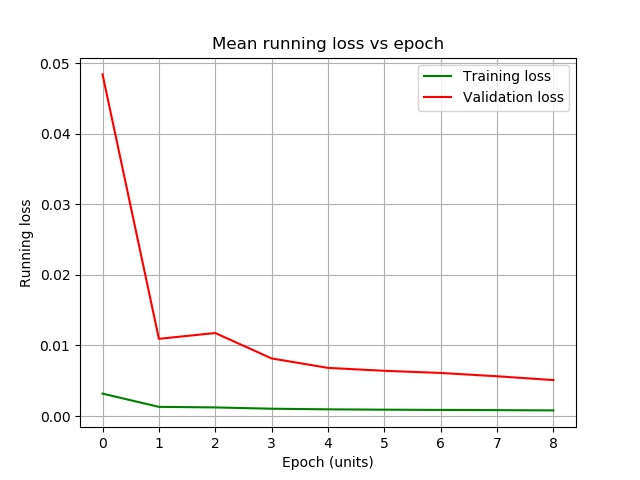
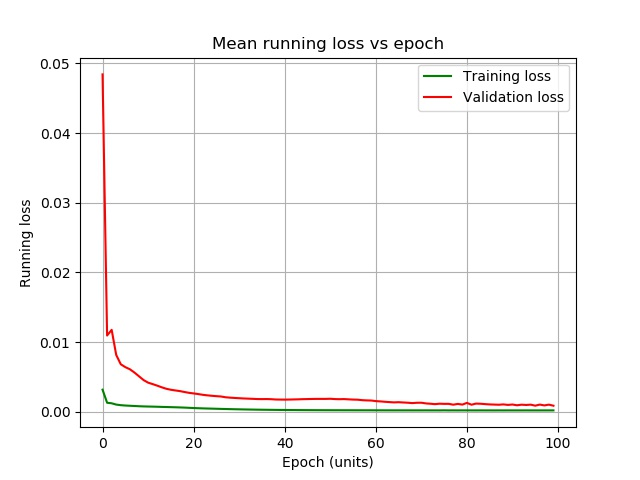
Added randomized data parameter option for raytune

diff --git a/LSTM_Test/tune.py b/LSTM_Test/tune.py
@@ -83,7 +83,11 @@ def load_data(config, data_dir):
 
     return times, defs
 
-def treat_data(times, defs, seq_length):
+def treat_data(times, defs, seq_length, random_win=False):
+    def random_win(x, y):
+        ind_rand = np.random.permutation(len(y))
+        rev_rand = np.argsort(ind_rand)
+        return x[ind_rand], y[ind_rand], rev_rand
     def reshape_data(data):
         # Reshape data array from 1D to 2D
         data = data.reshape(-1, 1)
@@ -126,6 +130,8 @@ def treat_data(times, defs, seq_length):
 
     # Treat data
     x, y = sliding_windows(training_data, seq_length)
+    if random_win:
+        x, y, rev_rand = self.random_win(x, y)
 
     dataX = Variable(torch.Tensor(np.array(x)))
     dataY = Variable(torch.Tensor(np.array(y)))
@@ -137,7 +143,7 @@ def treat_data(times, defs, seq_length):
     time_step = np.absolute(times[0] - times[1])
     times_dataY = (times + (seq_length*time_step))[:-seq_length-1]
 
-    return dataX, dataY, times_dataY, time_step
+    return dataX, dataY, times_dataY, time_step, rev_rand
 
 def train_model(config, checkpoint_dir="", data_dir="", validate=True):
     # Transform num into bool for biderectionality
@@ -150,9 +156,14 @@ def train_model(config, checkpoint_dir="", data_dir="", validate=True):
         stateful = True
     else:
         stateful = False
+
+    if config['rd']==0:
+        rw = True
+    else:
+        rw = False
     # Load data
     times, defs = load_data(config, data_dir)
-    defsX, defsY, times_dataY, time_step = treat_data(times, defs, config["sl"])
+    defsX, defsY, times_dataY, time_step, rev_rand = treat_data(times, defs, config["sl"], random_win=rw)
 
     # Initialize model
     lstm = LSTM(config["bs"],1,1,config["hs"],config["nl"],config["do"], bd)
@@ -279,7 +290,8 @@ def hyp_tune(num_samples=10, max_num_epochs=10, gpus_per_trial=2):
               "bs": tune.sample_from(lambda _: np.random.randint(1,50)),#27
               "lr": tune.loguniform(1e-4, 1e-1),#0.0008695868177968809
               "bd": tune.sample_from(lambda _: np.random.randint(0,2)),#0
-              "st": tune.sample_from(lambda _: np.random.randint(0,2))#0
+              "st": tune.sample_from(lambda _: np.random.randint(0,2)),#0
+              "rd": tune.sample_from(lambda _: np.random.randint(0,2))#0
               }
 
     scheduler = ASHAScheduler(
@@ -313,7 +325,8 @@ def hyp_tune(num_samples=10, max_num_epochs=10, gpus_per_trial=2):
                    df_result.iloc[ind_min_loss]['config.na'],
                    df_result.iloc[ind_min_loss]['config.do'],
                    df_result.iloc[ind_min_loss]['config.bd'],
-                   df_result.iloc[ind_min_loss]['config.st']]
+                   df_result.iloc[ind_min_loss]['config.st'],
+                   df_result.iloc[ind_min_loss]['config.rd']]
     print('Best configuration parameters:')
     print('------------------------------')
     print(' Loss = ', best_config[0], '\n',
@@ -325,7 +338,8 @@ def hyp_tune(num_samples=10, max_num_epochs=10, gpus_per_trial=2):
           'Number for Moving Average = ', best_config[6], '\n',
           'Dropout = ', best_config[7], '\n',
           'Bidirectional (0:F 1:T) = ', best_config[8], '\n',
-          'Stateful (0:F 1:T) = ', best_config[9])
+          'Stateful (0:F 1:T) = ', best_config[9], '\n',
+          'Randomized Data (0:F 1:T) = ', best_config[10])
 
 if __name__ == "__main__":
     hyp_tune(num_samples=num_samples, max_num_epochs=10, gpus_per_trial=1)

diff --git a/LSTM_Test/main.py b/LSTM_Test/main.py
@@ -64,7 +64,7 @@ stateful = False#True
 ## Data parameters
 n_avg = 2#43#2
 # Random windows for training
-rw = False#True
+rw = True#False#True
 #if rw:
 #    stateful = False
 #else:
